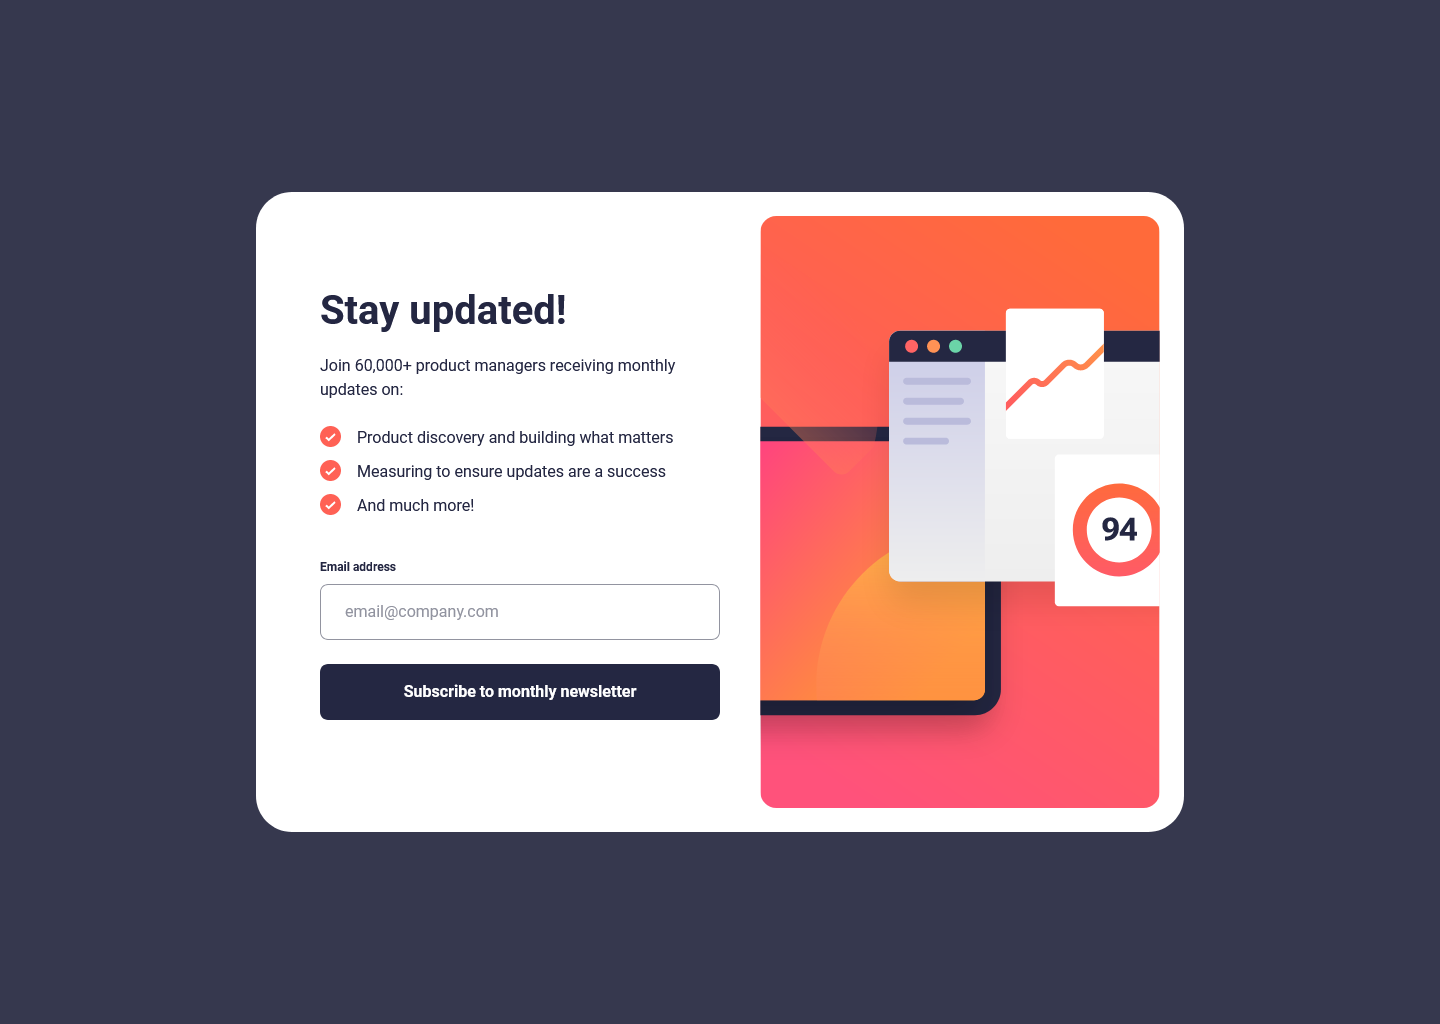
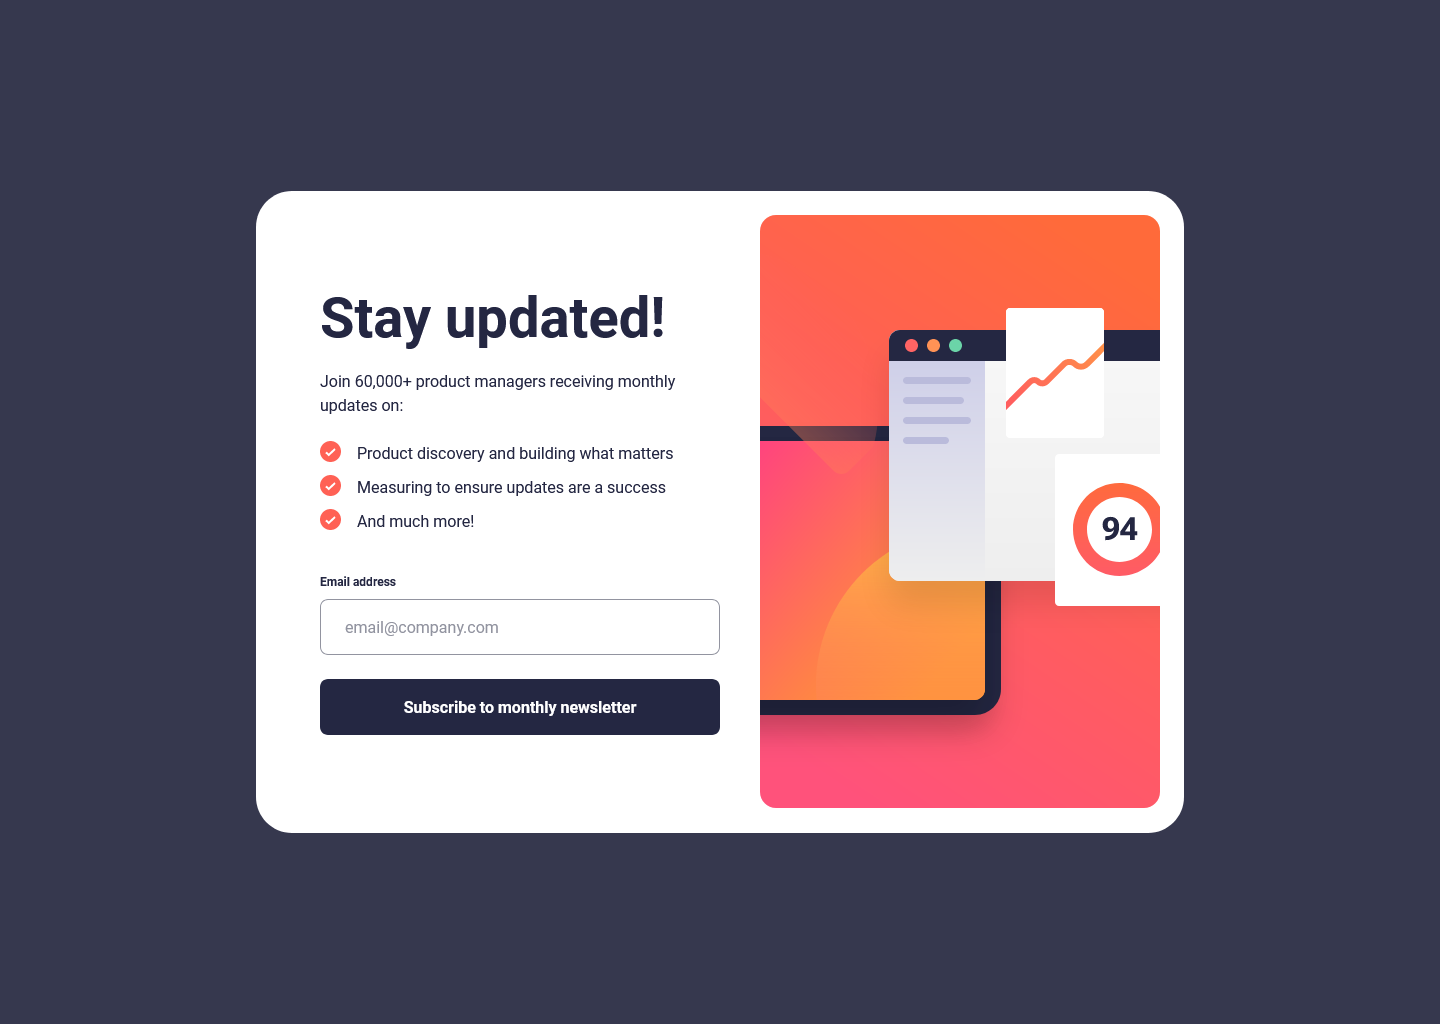
fix ed header

Changed region(s): [[0.2188, 0.2812, 0.5, 0.7188]]

diff --git a/dist/assets/index-936a0a62.css b/dist/assets/index-936a0a62.css
@@ -1,0 +1,1 @@
+*,:before,:after{box-sizing:border-box;border-width:0;border-style:solid;border-color:#e5e7eb}:before,:after{--tw-content: ""}html{line-height:1.5;-webkit-text-size-adjust:100%;-moz-tab-size:4;-o-tab-size:4;tab-size:4;font-family:ui-sans-serif,system-ui,-apple-system,BlinkMacSystemFont,Segoe UI,Roboto,Helvetica Neue,Arial,Noto Sans,sans-serif,"Apple Color Emoji","Segoe UI Emoji",Segoe UI Symbol,"Noto Color Emoji";font-feature-settings:normal;font-variation-settings:normal}body{margin:0;line-height:inherit}hr{height:0;color:inherit;border-top-width:1px}abbr:where([title]){-webkit-text-decoration:underline dotted;text-decoration:underline dotted}h1,h2,h3,h4,h5,h6{font-size:inherit;font-weight:inherit}a{color:inherit;text-decoration:inherit}b,strong{font-weight:bolder}code,kbd,samp,pre{font-family:ui-monospace,SFMono-Regular,Menlo,Monaco,Consolas,Liberation Mono,Courier New,monospace;font-size:1em}small{font-size:80%}sub,sup{font-size:75%;line-height:0;position:relative;vertical-align:baseline}sub{bottom:-.25em}sup{top:-.5em}table{text-indent:0;border-color:inherit;border-collapse:collapse}button,input,optgroup,select,textarea{font-family:inherit;font-feature-settings:inherit;font-variation-settings:inherit;font-size:100%;font-weight:inherit;line-height:inherit;color:inherit;margin:0;padding:0}button,select{text-transform:none}button,[type=button],[type=reset],[type=submit]{-webkit-appearance:button;background-color:transparent;background-image:none}:-moz-focusring{outline:auto}:-moz-ui-invalid{box-shadow:none}progress{vertical-align:baseline}::-webkit-inner-spin-button,::-webkit-outer-spin-button{height:auto}[type=search]{-webkit-appearance:textfield;outline-offset:-2px}::-webkit-search-decoration{-webkit-appearance:none}::-webkit-file-upload-button{-webkit-appearance:button;font:inherit}summary{display:list-item}blockquote,dl,dd,h1,h2,h3,h4,h5,h6,hr,figure,p,pre{margin:0}fieldset{margin:0;padding:0}legend{padding:0}ol,ul,menu{list-style:none;margin:0;padding:0}dialog{padding:0}textarea{resize:vertical}input::-moz-placeholder,textarea::-moz-placeholder{opacity:1;color:#9ca3af}input::placeholder,textarea::placeholder{opacity:1;color:#9ca3af}button,[role=button]{cursor:pointer}:disabled{cursor:default}img,svg,video,canvas,audio,iframe,embed,object{display:block;vertical-align:middle}img,video{max-width:100%;height:auto}[hidden]{display:none}*,:before,:after{--tw-border-spacing-x: 0;--tw-border-spacing-y: 0;--tw-translate-x: 0;--tw-translate-y: 0;--tw-rotate: 0;--tw-skew-x: 0;--tw-skew-y: 0;--tw-scale-x: 1;--tw-scale-y: 1;--tw-pan-x: ;--tw-pan-y: ;--tw-pinch-zoom: ;--tw-scroll-snap-strictness: proximity;--tw-gradient-from-position: ;--tw-gradient-via-position: ;--tw-gradient-to-position: ;--tw-ordinal: ;--tw-slashed-zero: ;--tw-numeric-figure: ;--tw-numeric-spacing: ;--tw-numeric-fraction: ;--tw-ring-inset: ;--tw-ring-offset-width: 0px;--tw-ring-offset-color: #fff;--tw-ring-color: rgb(59 130 246 / .5);--tw-ring-offset-shadow: 0 0 #0000;--tw-ring-shadow: 0 0 #0000;--tw-shadow: 0 0 #0000;--tw-shadow-colored: 0 0 #0000;--tw-blur: ;--tw-brightness: ;--tw-contrast: ;--tw-grayscale: ;--tw-hue-rotate: ;--tw-invert: ;--tw-saturate: ;--tw-sepia: ;--tw-drop-shadow: ;--tw-backdrop-blur: ;--tw-backdrop-brightness: ;--tw-backdrop-contrast: ;--tw-backdrop-grayscale: ;--tw-backdrop-hue-rotate: ;--tw-backdrop-invert: ;--tw-backdrop-opacity: ;--tw-backdrop-saturate: ;--tw-backdrop-sepia: }::backdrop{--tw-border-spacing-x: 0;--tw-border-spacing-y: 0;--tw-translate-x: 0;--tw-translate-y: 0;--tw-rotate: 0;--tw-skew-x: 0;--tw-skew-y: 0;--tw-scale-x: 1;--tw-scale-y: 1;--tw-pan-x: ;--tw-pan-y: ;--tw-pinch-zoom: ;--tw-scroll-snap-strictness: proximity;--tw-gradient-from-position: ;--tw-gradient-via-position: ;--tw-gradient-to-position: ;--tw-ordinal: ;--tw-slashed-zero: ;--tw-numeric-figure: ;--tw-numeric-spacing: ;--tw-numeric-fraction: ;--tw-ring-inset: ;--tw-ring-offset-width: 0px;--tw-ring-offset-color: #fff;--tw-ring-color: rgb(59 130 246 / .5);--tw-ring-offset-shadow: 0 0 #0000;--tw-ring-shadow: 0 0 #0000;--tw-shadow: 0 0 #0000;--tw-shadow-colored: 0 0 #0000;--tw-blur: ;--tw-brightness: ;--tw-contrast: ;--tw-grayscale: ;--tw-hue-rotate: ;--tw-invert: ;--tw-saturate: ;--tw-sepia: ;--tw-drop-shadow: ;--tw-backdrop-blur: ;--tw-backdrop-brightness: ;--tw-backdrop-contrast: ;--tw-backdrop-grayscale: ;--tw-backdrop-hue-rotate: ;--tw-backdrop-invert: ;--tw-backdrop-opacity: ;--tw-backdrop-saturate: ;--tw-backdrop-sepia: }.container{width:100%}@media (min-width: 640px){.container{max-width:640px}}@media (min-width: 768px){.container{max-width:768px}}@media (min-width: 1024px){.container{max-width:1024px}}@media (min-width: 1280px){.container{max-width:1280px}}@media (min-width: 1536px){.container{max-width:1536px}}.absolute{position:absolute}.relative{position:relative}.inset-0{top:0;right:0;bottom:0;left:0}.z-0{z-index:0}.z-10{z-index:10}.order-2{order:2}.mt-10{margin-top:2.5rem}.mt-6{margin-top:1.5rem}.flex{display:flex}.hidden{display:none}.h-14{height:3.5rem}.h-full{height:100%}.min-h-screen{min-height:100vh}.w-full{width:100%}.shrink-0{flex-shrink:0}.flex-col{flex-direction:column}.justify-between{justify-content:space-between}.gap-4{gap:1rem}.space-y-10>:not([hidden])~:not([hidden]){--tw-space-y-reverse: 0;margin-top:calc(2.5rem * calc(1 - var(--tw-space-y-reverse)));margin-bottom:calc(2.5rem * var(--tw-space-y-reverse))}.space-y-2>:not([hidden])~:not([hidden]){--tw-space-y-reverse: 0;margin-top:calc(.5rem * calc(1 - var(--tw-space-y-reverse)));margin-bottom:calc(.5rem * var(--tw-space-y-reverse))}.space-y-6>:not([hidden])~:not([hidden]){--tw-space-y-reverse: 0;margin-top:calc(1.5rem * calc(1 - var(--tw-space-y-reverse)));margin-bottom:calc(1.5rem * var(--tw-space-y-reverse))}.space-y-\[10px\]>:not([hidden])~:not([hidden]){--tw-space-y-reverse: 0;margin-top:calc(10px * calc(1 - var(--tw-space-y-reverse)));margin-bottom:calc(10px * var(--tw-space-y-reverse))}.rounded-\[8px\]{border-radius:8px}.border-\[1px\]{border-width:1px}.border-neutral-grey{--tw-border-opacity: 1;border-color:hsl(231 7% 60% / var(--tw-border-opacity))}.bg-neutral-darkSlateGrey{--tw-bg-opacity: 1;background-color:hsl(234 29% 20% / var(--tw-bg-opacity))}.bg-neutral-white{--tw-bg-opacity: 1;background-color:hsl(0 0% 100% / var(--tw-bg-opacity))}.px-6{padding-left:1.5rem;padding-right:1.5rem}.py-10{padding-top:2.5rem;padding-bottom:2.5rem}.pb-10{padding-bottom:2.5rem}.pt-\[149px\]{padding-top:149px}.font-roboto{font-family:Roboto,sans-serif}.text-\[40px\]{font-size:40px}.text-base{font-size:1rem;line-height:1.5rem}.text-xs{font-size:.75rem;line-height:1rem}.font-bold{font-weight:700}.leading-10{line-height:2.5rem}.leading-\[18px\]{line-height:18px}.text-neutral-darkSlateGrey{--tw-text-opacity: 1;color:hsl(234 29% 20% / var(--tw-text-opacity))}.text-neutral-white{--tw-text-opacity: 1;color:hsl(0 0% 100% / var(--tw-text-opacity))}.text-primary-tomato{--tw-text-opacity: 1;color:hsl(4 100% 67% / var(--tw-text-opacity))}.outline-1{outline-width:1px}.outline-neutral-darkSlateGrey{outline-color:#242742}.transition{transition-property:color,background-color,border-color,text-decoration-color,fill,stroke,opacity,box-shadow,transform,filter,-webkit-backdrop-filter;transition-property:color,background-color,border-color,text-decoration-color,fill,stroke,opacity,box-shadow,transform,filter,backdrop-filter;transition-property:color,background-color,border-color,text-decoration-color,fill,stroke,opacity,box-shadow,transform,filter,backdrop-filter,-webkit-backdrop-filter;transition-timing-function:cubic-bezier(.4,0,.2,1);transition-duration:.15s}@font-face{font-family:Roboto;src:url(/assets/Roboto-Bold-39a2f9d2.ttf) format("truetype");font-weight:700;font-style:normal}@font-face{font-family:Roboto;src:url(/assets/Roboto-Regular-7277cfb8.ttf) format("truetype");font-weight:400;font-style:normal}@media screen and (min-width: 1024px){#btn:before{content:"";position:absolute;top:0;right:0;bottom:0;left:0;background-image:linear-gradient(204deg,#ff6a3a 0%,#ff527b 100%);z-index:-1;opacity:0;transition:.3s all ease-in-out;border-radius:8px}#btn:hover:before{box-shadow:0 16px 32px #ff615580;opacity:1}#btn-success:before{content:"";position:absolute;top:0;right:0;bottom:0;left:0;background-image:linear-gradient(204deg,#ff6a3a 0%,#ff527b 100%);z-index:-1;opacity:0;transition:.3s all ease-in-out;border-radius:8px}#btn-success:hover:before{box-shadow:0 16px 32px #ff615580;opacity:1}}.error-class input{--tw-border-opacity: 1;border-color:hsl(4 100% 67% / var(--tw-border-opacity));background-color:#ff615526;--tw-text-opacity: 1;color:hsl(4 100% 67% / var(--tw-text-opacity));outline-width:2px;outline-color:#ff6257}.error-class #error-msg{display:block}.placeholder\:text-neutral-grey::-moz-placeholder{--tw-text-opacity: 1;color:hsl(231 7% 60% / var(--tw-text-opacity))}.placeholder\:text-neutral-grey::placeholder{--tw-text-opacity: 1;color:hsl(231 7% 60% / var(--tw-text-opacity))}@media (min-width: 768px){.md\:px-10{padding-left:2.5rem;padding-right:2.5rem}.md\:py-\[74px\]{padding-top:74px;padding-bottom:74px}}@media (min-width: 1024px){.lg\:inset-auto{inset:auto}.lg\:mx-auto{margin-left:auto;margin-right:auto}.lg\:grid{display:grid}.lg\:h-\[520px\]{height:520px}.lg\:w-\[504px\]{width:504px}.lg\:max-w-\[928px\]{max-width:928px}.lg\:grid-cols-\[54\.55\%_45\.45\%\]{grid-template-columns:54.55% 45.45%}.lg\:place-items-center{place-items:center}.lg\:rounded-\[36px\]{border-radius:36px}.lg\:bg-neutral-charcoalGrey{--tw-bg-opacity: 1;background-color:hsl(235 18% 26% / var(--tw-bg-opacity))}.lg\:p-6{padding:1.5rem}.lg\:px-16{padding-left:4rem;padding-right:4rem}.lg\:pb-16{padding-bottom:4rem}.lg\:pt-12{padding-top:3rem}.lg\:text-\[56px\]{font-size:56px}.lg\:leading-\[56px\]{line-height:56px}}

diff --git a/dist/index.html b/dist/index.html
@@ -18,8 +18,8 @@
     <title>
       Frontend Mentor | Newsletter sign-up form with success message
     </title>
-    <script type="module" crossorigin src="/assets/index-5f96d0d4.js"></script>
-    <link rel="stylesheet" href="/assets/index-bd84dcfc.css">
+    <script type="module" crossorigin src="/assets/index-56e4f093.js"></script>
+    <link rel="stylesheet" href="/assets/index-936a0a62.css">
   </head>
   <body class="font-roboto">
     <main
@@ -47,7 +47,9 @@
         >
           <div class="space-y-6">
             <!-- header -->
-            <h1 class="text-[40px] font-bold leading-10 lg:text-[56px]">
+            <h1
+              class="text-[40px] font-bold leading-10 lg:text-[56px] lg:leading-[56px]"
+            >
               Stay updated!
             </h1>
             <!-- subheader -->

diff --git a/index.html b/index.html
@@ -48,7 +48,9 @@
         >
           <div class="space-y-6">
             <!-- header -->
-            <h1 class="text-[40px] font-bold leading-10 lg:text-[56px]">
+            <h1
+              class="text-[40px] font-bold leading-10 lg:text-[56px] lg:leading-[56px]"
+            >
               Stay updated!
             </h1>
             <!-- subheader -->
